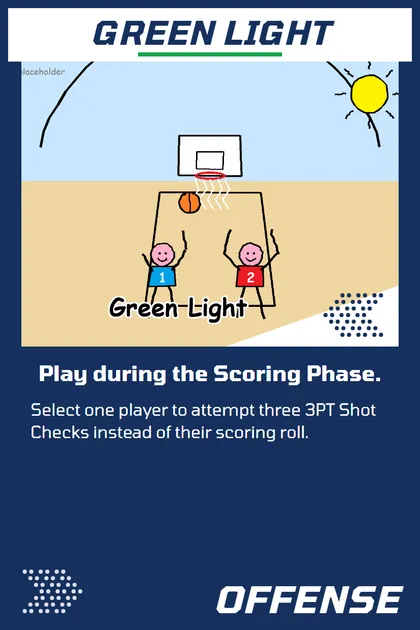
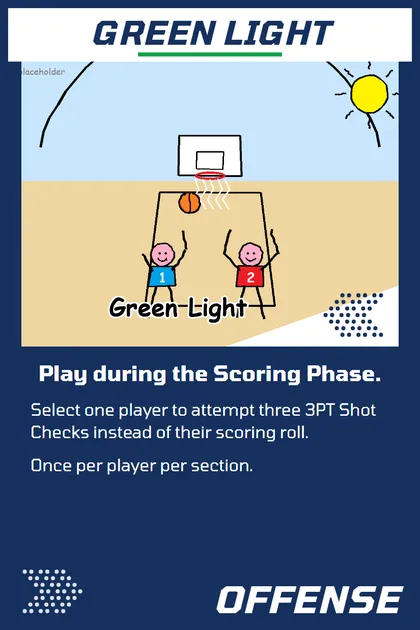
game: Green Light once per player per section; the coach's bench hides who must sit until its five are placed
Two play-test reports, 2026-09-30.

"I should not be able to play green light on the same player twice a
section." Green Light records the roll it replaces as replaced, and both the
board picker and the engine let a replaced roll through (the 09-05 rule that
lets From Way Downtown follow You Stand Over There), so the same shooter could
take a second one. greenLightTargets (canPlay.js) is now the one rule for the
card check, the picker, the engine and the coach's target pick: not blocked,
not rolled or roll skipped, and no Green Light yet this section, kept by player
id in tempEff (cleared at section end), as Burst of Momentum does. The card
text says so; its face is re-exported.

"I shouldn't know that Shai can't play this section until all five players
for my opponent are placed." OppStatusPanel drew a bench player at twelve
minutes as ⛔12m mid-snake. While the coach still has players to place, its
unplaced players show no tracker (a FAT-6 tag or a minutes-sorted bench says
the same thing); placed players and everything else show as before, and it
all returns once the coach's fifth is down.

Changed region(s): [[0.0619, 0.7238, 0.619, 0.754]]

diff --git a/src/components/game/CourtBoard.jsx b/src/components/game/CourtBoard.jsx
@@ -1,14 +1,14 @@
 import { useEffect, useRef, useState } from 'react';
 import { challengeTarget, calcAdv, matchupAdv, getTeam, getOpp, getPS, getFatigue, SPEND_COSTS, reboundCheckOpen, reboundCheckBonus, reboundTrackLead, clutchAvailable, burnedSlots, satOutLast, returnCardToDeck, lastReturnedCard, undoReturnCard, periodLabel, extraRollPending, checkNeed, fatigueForMinutes, crunchSearchOptions, rollTurnLine, rollingOpen as diceOut, timeoutProblem, scoringRollModifier, matchupContest } from '../../game/engine.js';
 import { lookupChart } from '../../game/cards.js';
-import { canPlayCard, burstTargets, myHouseTargets, fwdTargets, preRollTargets, helpTargets, foulTroubleTargets, clampTargets, kickOutTargets, pendingCheckExtra } from '../../game/canPlay.js';
+import { canPlayCard, burstTargets, greenLightTargets, myHouseTargets, fwdTargets, preRollTargets, helpTargets, foulTroubleTargets, clampTargets, kickOutTargets, pendingCheckExtra } from '../../game/canPlay.js';
 import { resolveChoice } from '../../game/execCard.js';
 import { choicePreview } from '../../game/cardPreview.js';
-import { passTurn, MAX_STRAIGHT_MINUTES, restRuleLifted, pickablePool } from '../../game/engine.js';
+import { passTurn, MAX_STRAIGHT_MINUTES, restRuleLifted, pickablePool, STARTERS } from '../../game/engine.js';
 import { salaryOrder } from '../../game/teamRules.js';
 import { getStrat } from '../../game/strats.js';
 import { aiDraftPick, aiPlacementPick, forfeitNet, FORFEIT_CARDS } from '../../game/ai.js';
-import { placePlayer, placementSnapshot, canUndoPlacement, undoPlacement, takenBackName, submitSoloLineup, DEFAULT_ORDER } from '../../game/placement.js';
+import { placePlayer, placementSnapshot, canUndoPlacement, undoPlacement, takenBackName, submitSoloLineup, DEFAULT_ORDER, placingTeam } from '../../game/placement.js';
 import styles from './CourtBoard.module.css';
 import { getPlayerImageUrl, getPlayerThumbUrl, getStratImagePath, getStratThumbPath, fallbackTo } from '../../game/cardImages.js';
 import { useLightbox, ZoomImg } from '../CardLightbox.jsx';
@@ -607,9 +607,11 @@ export async function buildOpts(game, teamKey, cardId, base, openModal, ui = {})
         break;
       }
       case 'green_light': {
-        // Not a shut-out player: This Is My House takes the roll AND the checks that would replace it.
-        eligible = filterStarters(myT.starters, (_, i) => (!rolls[i] || rolls[i]?.isReplaced) && !game.blockedRolls?.[teamKey]?.[i]);
-        label = 'Select player who hasn\'t rolled yet';
+        // Not a shut-out player: This Is My House takes the roll AND the checks
+        // that would replace it. And once per player per section (2026-09-30).
+        const open = new Set(greenLightTargets(game, teamKey));
+        eligible = filterStarters(myT.starters, (_, i) => open.has(i));
+        label = 'Select player (not rolled yet, no Green Light yet this section)';
         break;
       }
       // Roll-replacing / roll-modifying cards — must be pre-roll only.
@@ -2278,8 +2280,16 @@ export function OppStatusPanel({ game, teamKey }) {
   const t = getTeam(game, teamKey);
   const col = teamKey === 'A' ? 'var(--orange)' : 'var(--blue)';
   const onFloor = new Set((t.starters || []).map(p => p?.id).filter(Boolean));
+  // WHO CAN PLAY STAYS HIDDEN UNTIL THEIR FIVE ARE DOWN (2026-09-30, the
+  // user: "I shouldn't know that Shai can't play this section until all five
+  // players for my opponent are placed"). A player at twelve minutes sits the
+  // section (mustRest), so while the coach still has players to place, its
+  // bench shows no tracker: the ⛔ said it outright, and a FAT-6 tag or a bench
+  // sorted by minutes says it just as well. The floor stays visible — those
+  // players are placed — and everything shows once the fifth is down.
+  const hideTracker = placingTeam(game) !== null && onFloor.size < STARTERS;
   // On the floor first, then the bench, each by minutes played — the order a
-  // coach reads a rotation in.
+  // coach reads a rotation in. Roster order for a hidden bench.
   const rows = (t.roster || []).map(p => {
     const ps = getPS(game, teamKey, p.id) || {};
     const min = ps.minutes || 0;
@@ -2291,8 +2301,9 @@ export function OppStatusPanel({ game, teamKey }) {
       cold: ps.cold || 0,
       pts: ps.pts || 0,
       playing: onFloor.has(p.id),
+      hidden: hideTracker && !onFloor.has(p.id),
     };
-  }).sort((a, b) => (b.playing - a.playing) || (b.min - a.min));
+  }).sort((a, b) => (b.playing - a.playing) || (a.hidden || b.hidden ? 0 : b.min - a.min));
 
   return (
     <div className={`${styles.handPanel} ${teamKey === 'A' ? styles.handL : styles.handR}`}>
@@ -2305,14 +2316,18 @@ export function OppStatusPanel({ game, teamKey }) {
           <div
             key={r.p.id}
             className={`${styles.oppRow} ${r.playing ? styles.oppOn : ''}`}
-            title={`${r.p.name} — ${r.playing ? 'on the floor' : 'on the bench'}, ${r.min} min on the fatigue tracker${r.fat < 0 ? `, ${r.fat} to every roll` : ''}${r.hot ? `, ${r.hot} hot` : ''}${r.cold ? `, ${r.cold} cold` : ''}`}
+            title={r.hidden
+              ? `${r.p.name} — not placed; the fatigue tracker shows once all five of theirs are down${r.hot ? `, ${r.hot} hot` : ''}${r.cold ? `, ${r.cold} cold` : ''}`
+              : `${r.p.name} — ${r.playing ? 'on the floor' : 'on the bench'}, ${r.min} min on the fatigue tracker${r.fat < 0 ? `, ${r.fat} to every roll` : ''}${r.hot ? `, ${r.hot} hot` : ''}${r.cold ? `, ${r.cold} cold` : ''}`}
           >
             <span className={styles.oppDot} style={{ background: r.playing ? col : 'transparent', borderColor: col }} />
             <span className={styles.oppName}>{r.p.name}</span>
             <span className={styles.oppMeta}>
               {r.pts > 0 && <span className={styles.oppPts}>{r.pts}p</span>}
               {markerCount(r) !== 0 && <span>{markerEmoji(r)}</span>}
-              {r.min >= MAX_STRAIGHT_MINUTES && !restRuleLifted(game)
+              {r.hidden
+                ? <span className={styles.oppMin}>–</span>
+                : r.min >= MAX_STRAIGHT_MINUTES && !restRuleLifted(game)
                 ? <span className={styles.oppRest}>⛔{r.min}m</span>
                 : r.fat < 0
                   ? <span className={styles.fatTag}>FAT{r.fat}</span>

diff --git a/src/components/game/coachHand.test.jsx b/src/components/game/coachHand.test.jsx
@@ -92,6 +92,52 @@ describe('playing the coach', () => {
   });
 });
 
+// WHO CAN PLAY IS NOT YOURS TO KNOW UNTIL THEIR FIVE ARE DOWN (2026-09-30).
+// The user, on Shai Gilgeous-Alexander's ⛔12m on the coach's bench mid-snake:
+// "I shouldn't know that Shai can't play this section until all five players
+// for my opponent are placed."
+describe('the coach\'s bench during placement', () => {
+  /** The snake in progress: `placed` of the coach's five down, step `step`. */
+  const placing = (placed, step) => {
+    const g = start();
+    const game = { ...g, phase: 'matchup_strats', placementStep: step };
+    game.teamA.starters = game.teamA.roster.slice(0, Math.min(STARTERS, step - placed));
+    game.teamB.starters = game.teamB.roster.slice(0, placed);
+    const ps = id => game.teamB.stats.find(s => s.id === id);
+    ps(game.teamB.roster[0].id).minutes = 8;    // placed: FAT-2 is on the floor for all to see
+    ps(game.teamB.roster[1].id).minutes = 0;
+    ps(game.teamB.roster[7].id).minutes = 12;   // on the bench: must rest
+    return game;
+  };
+  const panelOf = game => theirPanel(renderToStaticMarkup(
+    <CourtBoard game={game} setGame={() => {}} coachTeam="B"
+      onRoll={() => {}} onEndSection={() => {}} onExecCard={() => {}}
+      onResolve={() => {}} onSpendAssist={() => {}} onSpendRebound={() => {}} />
+  ));
+
+  it('shows no tracker on an unplaced player while the coach has players to place', () => {
+    const panel = panelOf(placing(2, 5));
+    expect(panel).not.toContain('⛔');
+    expect(panel).not.toContain('FAT-6');
+    expect(panel).not.toContain('12m');
+    expect(panel).toMatch(/not placed; the fatigue tracker shows once all five of theirs are down/);
+    // The placed players are on the floor and show theirs.
+    expect(panel).toContain('FAT-2');
+  });
+
+  it('shows everything once the coach\'s fifth is down', () => {
+    const panel = panelOf(placing(5, 10));
+    expect(panel).toContain('⛔12m');
+    expect(panel).not.toMatch(/not placed;/);
+  });
+
+  it('shows everything once the coach\'s five are down, even with yours still to place', () => {
+    // Coach placing first in a custom order: its five are down at step 9 and the human places last.
+    const game = placing(5, 9);
+    expect(panelOf(game)).toContain('⛔12m');
+  });
+});
+
 describe('hotseat, where both hands are the same person\'s', () => {
   it('hides nothing — there is nobody to hide it from', () => {
     expect(paint({ coachTeam: null })).toContain('data-card-id="switch_everything"');

diff --git a/src/game/announcedChecks.test.js b/src/game/announcedChecks.test.js
@@ -8,7 +8,8 @@ import { describe, it, expect, vi, afterEach } from 'vitest';
 import { newGame, getTeam } from './engine.js';
 import { CARDS } from './cards.js';
 import { execCard, resolvePendingShotCheck, announceCheck } from './execCard.js';
-import { canAnswerCheck } from './canPlay.js';
+import { canAnswerCheck, canPlayCard, greenLightTargets } from './canPlay.js';
+import { forfeitNet } from './ai.js';
 
 const p = (name, speed, power, extra = {}) => ({
   ...CARDS[0], id: name, name, speed, power, defBoost: 0, salary: 800,
@@ -127,6 +128,32 @@ describe('the cards themselves', () => {
     const done = resolvePendingShotCheck({ ...r.game, teamB: { ...r.game.teamB, hand: [] } });
     expect(done.log.filter(e => e.msg.startsWith('Green Light'))).toHaveLength(3);
     expect(done.rollResults.A[0]).toMatchObject({ isReplaced: true });
+  });
+
+  // ONCE PER PLAYER PER SECTION (the user, 2026-09-30: "I should not be able
+  // to play green light on the same player twice a section"). The first one
+  // records the roll as replaced, which is the door a second one walked in by.
+  it('Green Light cannot be played on the same player twice in a section', () => {
+    vi.spyOn(Math, 'random').mockReturnValue(0.5);
+    const A = five('a'); A[0] = p('shooter', 10, 10, { threePtBoost: 3 });
+    const first = execCard(game({ A, hand: ['green_light', 'green_light'] }), 'A', 'green_light', { playerIdx: 0 });
+    expect(first.ok).toBe(true);
+    expect(greenLightTargets(first.game, 'A')).not.toContain(0);
+    const again = execCard(first.game, 'A', 'green_light', { playerIdx: 0 });
+    expect(again.ok).toBe(false);
+    expect(again.msg).toMatch(/has had a Green Light this section/);
+    // Another player is still fair game, and the card still reads as playable for them.
+    expect(greenLightTargets(first.game, 'A')).toContain(1);
+    expect(canPlayCard(first.game, 'A', 'green_light').canPlay).toBe(true);
+    expect(execCard(first.game, 'A', 'green_light', { playerIdx: 1 }).ok).toBe(true);
+  });
+
+  it('the coach never aims a second Green Light at the same player', () => {
+    const A = five('a'); A[0] = p('shooter', 10, 10, { threePtBoost: 3 });
+    const g = game({ A, hand: ['green_light'] });
+    g.tempEff = { A: { greenLightIds: ['shooter'] } };
+    expect(forfeitNet(g, 'A', 0, 'green_light')).toBeNull();
+    expect(forfeitNet(g, 'A', 1, 'green_light')).not.toBeNull();
   });
 
   it('a free throw is never interrupted, however armed the defence is', () => {

diff --git a/src/game/execCard.js b/src/game/execCard.js
@@ -4,7 +4,7 @@
 
 import { handOverPriority, getTeam, getOpp, getPS, calcAdv, shotCheck, matchupContest, drawCards, deepClone, getFatigue, recordDefSwitch, burnedSlots, roll20, checkAssistDraw, standingEntry, CROWD_FAVORITE_PTS, satOutLast, bottomedLines } from './engine.js';
 import { creditAllowed, creditCheckDefended, recordPaintCheck, creditPaintScore, noteLastCheck, challengeTarget, gainRebounds, loseRebounds, reboundTrackLead } from './engine.js';
-import { burstTargets, helpTargets, canAnswerCheck, myHouseHolds, foulTroubleTargets, clampTargets, kickOutTargets, pushGuardIdx, OWN_THE_GLASS_LEAD, reboundLeadProblem } from './canPlay.js';
+import { burstTargets, greenLightTargets, helpTargets, canAnswerCheck, myHouseHolds, foulTroubleTargets, clampTargets, kickOutTargets, pushGuardIdx, OWN_THE_GLASS_LEAD, reboundLeadProblem } from './canPlay.js';
 import { lookupChart } from './cards.js';
 import { getStrat } from './strats.js';
 
@@ -700,6 +700,10 @@ function resolveCard(game, teamKey, cardId, opts = {}) {
       if (shut) return fail(shut);
       const existingRoll = (g.rollResults[teamKey] || [])[idx];
       if (existingRoll && !existingRoll.isReplaced) return fail(player?.name + ' has already rolled this segment.');
+      // Once per player per section (greenLightTargets, canPlay.js).
+      if (!greenLightTargets(g, teamKey).includes(idx)) return fail(`${player?.name} has had a Green Light this section`);
+      g.tempEff[teamKey] = g.tempEff[teamKey] || {};
+      g.tempEff[teamKey].greenLightIds = [...(g.tempEff[teamKey].greenLightIds || []), player?.id];
       announceCheck(g, {
         teamKey, playerIdx: idx, type: '3pt', bonus: _assistShotBonus,
         cardLabel: 'Green Light #1', replaceRoll: idx, replacedBy: 'green_light',

diff --git a/src/game/canPlay.js b/src/game/canPlay.js
@@ -43,6 +43,21 @@ export function fwdTargets(g, teamKey) {
 }
 
 /**
+ * GREEN LIGHT'S PLAYERS: not blocked, not rolled (or their roll skipped by a
+ * card, the fwdTargets rule), and NO GREEN LIGHT YET THIS SECTION (the user,
+ * 2026-09-30: "I should not be able to play green light on the same player
+ * twice a section"). Green Light itself records the roll as replaced, and the
+ * replaced-roll door let the same shooter take a second one; who has had one
+ * is kept by player id in tempEff, cleared at section end, as Burst of
+ * Momentum does. Slot indices, for the card check, the picker, the engine and
+ * the coach alike.
+ */
+export function greenLightTargets(g, teamKey) {
+  const had = new Set(g.tempEff?.[teamKey]?.greenLightIds || []);
+  return fwdTargets(g, teamKey).filter(({ p }) => !had.has(p.id)).map(({ idx }) => idx);
+}
+
+/**
  * The players a PRE-ROLL card can still be played on: not rolled, not blocked,
  * and whatever the card itself asks for (`cond`).
  *
@@ -842,7 +857,7 @@ function cardVerdict(g, teamKey, cardId) {
   }
   switch (cardId) {
     case 'green_light':
-      if (preRollTargets(g, teamKey).length === 0) return no('Everyone has rolled or is shut out');
+      if (greenLightTargets(g, teamKey).length === 0) return no('Everyone has rolled, is shut out, or has had a Green Light this section');
       return ok('Three 3PT checks instead of the roll');
     case 'five_out':
       if (preRollTargets(g, teamKey, p => (p.threePtBoost || 0) > 0).length === 0) return no('Every 3PT shooter has already rolled');

diff --git a/src/game/ai.js b/src/game/ai.js
@@ -5,7 +5,7 @@
 
 import { challengeTarget, getTeam, getOpp, getPS, calcAdv, matchupAdv, isGhosted, getFatigue, fatigueForMinutes, restMinutes, MAX_STRAIGHT_MINUTES, pickablePool, SPEND_COSTS, REBOUND_RULES, reboundCheckOpen, reboundCheckBonus, reboundTrackLead, clutchAvailable, clutchEligible, burnedSlots, satOutLast, canRollSlot, extraRollPending, checkNeed, crunchSearchOptions, timeoutProblem } from './engine.js';
 import { lookupChart } from './cards.js';
-import { canPlayCard, burstTargets, helpTargets, staggerPair, myHouseTargets, foulTroubleTargets, clampTargets, kickOutTargets, REBOUND_CARD_COST, pendingCheckExtra } from './canPlay.js';
+import { canPlayCard, burstTargets, greenLightTargets, helpTargets, staggerPair, myHouseTargets, foulTroubleTargets, clampTargets, kickOutTargets, REBOUND_CARD_COST, pendingCheckExtra } from './canPlay.js';
 import { getStrat, STRATS, TIMEOUT_RIDERS } from './strats.js';
 import { DEFAULT_ORDER } from './placement.js';
 
@@ -1402,6 +1402,8 @@ export function forfeitNet(game, teamKey, idx, cardId) {
   if (!p) return null;
   if ((game.rollResults?.[teamKey] || [])[idx] != null) return null;
   if ((game.blockedRolls?.[teamKey] || {})[idx]) return null;
+  // Green Light: once per player per section (greenLightTargets, 2026-09-30).
+  if (cardId === 'green_light' && !greenLightTargets(game, teamKey).includes(idx)) return null;
   if (spec.needsThree && !((p.threePtBoost || 0) > 0)) return null;
   let checks = 0;
   for (const c of spec.checks) {

diff --git a/src/game/home.js b/src/game/home.js
@@ -23,6 +23,11 @@ import { teamIdFor } from './modes/league.js';
  */
 export const NEWS = [
   {
+    id: 'green-light-once-hidden-bench', date: '2026-09-30', title: 'Green Light once per player; the coach\'s bench stays hidden while it places',
+    body: "Green Light can be played on a player once per section now; a second one on the same shooter is refused, and the coach follows the same rule. And while the coach is still placing its five, its bench no longer shows the fatigue tracker, so you can't tell who has to sit before its lineup is down. Everything shows again once its fifth player is placed.",
+    to: 'play', cta: 'Play',
+  },
+  {
     id: 'charts-rows-follow-points', date: '2026-09-30', title: 'New charts, and coins for cards that changed rarity',
     body: "Every card's chart was rebuilt. The rebounds and assists on each points row are now what the player actually averaged on the nights they scored that much, so a big scoring row no longer means more of everything, and a higher row is never worth less than the one below it. The points ladders are unchanged on nearly every card. A few cards crossed a rarity line with their new salaries. If you held any from before the change, you were paid once, on your next visit: the difference in burn value for every copy (40 coins for a rare that is now uncommon, 150 for a legendary that is now super-rare), with cards that moved up counted against it, and never below zero.",
     to: 'collection', cta: 'Collection',

diff --git a/src/game/strats.js b/src/game/strats.js
@@ -30,7 +30,7 @@ export const STRATS = [
 
   // ── SCORING PHASE ──
   { id:'green_light',         name:'Green Light',        phase:'scoring',  side:'off', copies:2, locked:false, color:'#16A34A', rarity:'uncommon',
-    desc:'Select one player to attempt three 3PT Shot Checks instead of their scoring roll.' },
+    desc:'Select one player to attempt three 3PT Shot Checks instead of their scoring roll. Once per player per section.' },
   { id:'from_way_downtown',   name:'From Way Downtown',  phase:'scoring',  side:'off', copies:3, locked:false, color:'#2563EB', rarity:'common',
     desc:'3PT Shot Check at +1. Roll 1–3: cold marker. Roll 18–20: hot marker.' },
   { id:'catch_and_shoot',     name:'Catch & Shoot',      phase:'scoring',  side:'off', copies:3, locked:false, color:'#0891B2', rarity:'common',
